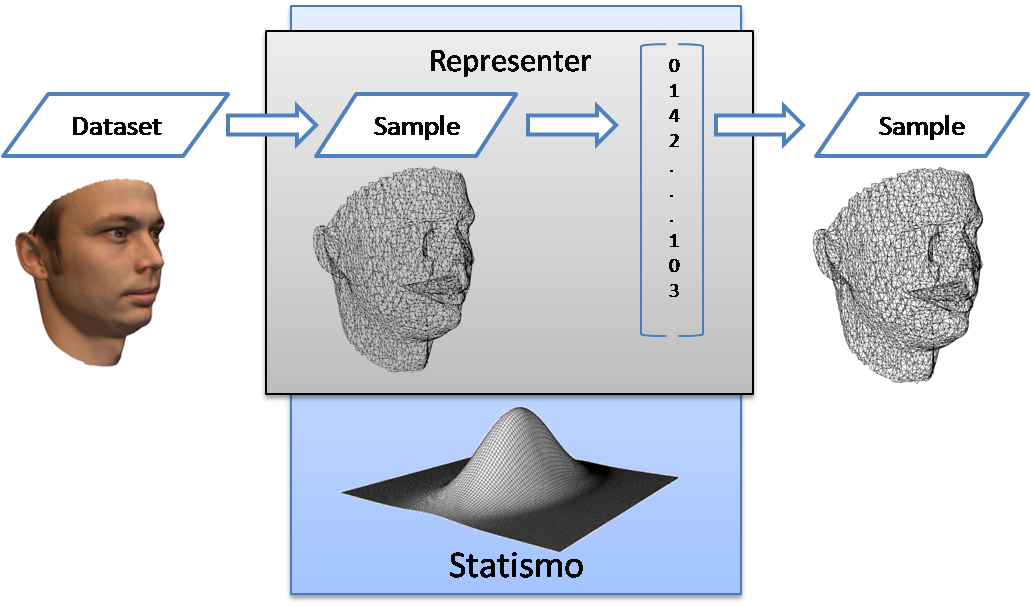
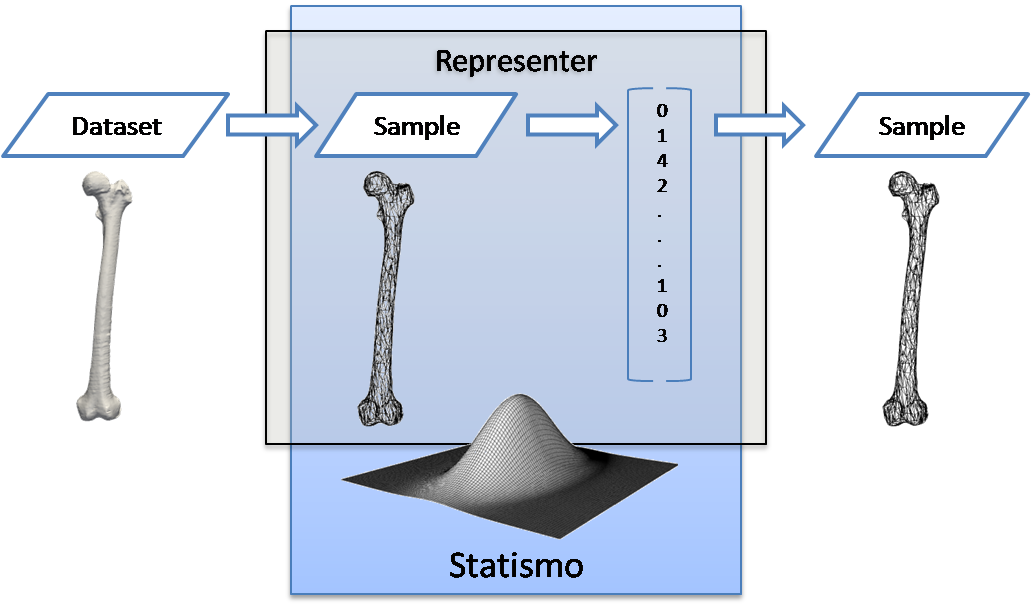
added all illustrations in IJ article

Changed region(s): [[0.2483, 0.0297, 0.7449, 0.9208], [0.7759, 0.2673, 0.9622, 0.7129], [0.0, 0.2673, 0.1862, 0.7129]]

diff --git a/doc/IJ/statismo_ij.tex b/doc/IJ/statismo_ij.tex
@@ -48,12 +48,15 @@ colorlinks,linkcolor={blue},citecolor={blue},urlcolor={blue},
 
 % At minimum, give your name and an email address.  You can include a
 % snail-mail address if you like.
-\author{Marcel L\"uthi$^{1}$, R{\'e}mi Blanc$^{2}$, Thomas Albrecht$^{1}$, Tobias Gass$^{3}$, Orcun Goksel$^3$, Philippe B\"uchler$^{4}$, Michael Kistler$^4$, Habib Bou-Sleiman$^4$,  Mauricio Reyes$^{4}$, Thomas Vetter$^{1}$ }
+\author{Marcel L\"uthi$^{1}$, R{\'e}mi Blanc$^{2}$, Thomas Albrecht$^{1}$, Tobias Gass$^{3}$, Orcun Goksel$^3$, Philippe B\"uchler$^{4}$, Michael Kistler$^4$, Habib Bou-Sleiman$^4$,  Mauricio Reyes$^{4}$, Philippe C. Cattin$^{5}$, Thomas Vetter$^{1}$ }
 
 \authoraddress{$^{1}$Department of Mathematics and Computer Science, University of Basel, Switzerland\\
                $^{2}$University of Bordeaux (TODO WHICH INSTITUTE!!!!), France\\
                $^{3}$Computer Vision Lab, ETH Zurich, Switzerland \\
-               $^{4}$Institute for Surgical Technology and Biomechanics, University of Berne, Switzerland }
+               $^{4}$Institute for Surgical Technology and Biomechanics, University of Berne, Switzerland  \\
+               $^{5}$Medical Image Analysis Center, University of Basel, Switzerland 
+             }
+
 
 \begin{document}
 
@@ -185,20 +188,25 @@ is used for creating a shape model from shapes represented in VTK can
 also be used for creating deformation models from ITK displacement
 fields.
 
-One of the main design goals of \Statismo is to facilitate the exchange of
-statistical models among different research groups and end users. We therefore
-defined a platform independent storage based on HDF5. \Statismo stores all the 
-information needed to capture the complete probabilistic interpretation of the model.
-This requires in particular that all the pre-processing steps, such as alignment or normalization 
-can be reproduced. \Statismo enforces this by requiring the same Representer to be used 
-in the application of the model, as was used for model building. Moreover, \Statismo stores
-all the parameters and additional metadata necessary to make the models more easily reproducible. 
-Another goal of \Statismo is to allow for the easy integration of
-different model building algorithms. This is achieved by the modular design of the data management, model building and model representation components. Thus, new algorithms for model building can be easily
-integrated into \Statismo and make use of all the functionality
-already implemented.  In addition to  standard PCA models, \Statismo
-currently supports the building of conditional models based on surrogate
-variables \cite{blanc_conditional_2009}, as well as geometric constraints \cite{luthi_probabilistic_2009}.
+One of the main design goals of \Statismo is to facilitate the
+exchange of statistical models among different research groups and end
+users. We therefore defined a platform independent storage based on
+HDF5 \cite{hdf5}. \Statismo stores all the information needed to
+capture the complete probabilistic interpretation of the model.  This
+requires in particular that all the pre-processing steps, such as
+alignment or normalization can be reproduced. \Statismo enforces this
+by requiring the same Representer to be used in the application of the
+model, as was used for model building. Moreover, \Statismo stores all
+the parameters and additional metadata necessary to make the models
+more easily reproducible.  Another goal of \Statismo is to allow for
+the easy integration of different model building algorithms. This is
+achieved by the modular design of the data management, model building
+and model representation components. Thus, new algorithms for model
+building can be easily integrated into \Statismo and make use of all
+the functionality already implemented.  In addition to standard PCA
+models, \Statismo currently supports the building of conditional
+models based on surrogate variables \cite{blanc_conditional_2009}, as
+well as geometric constraints \cite{luthi_probabilistic_2009}.
 
 \Statismo includes standard Representers for the most commonly used
 data representations in VTK and ITK, making it possible to build and
@@ -545,16 +553,17 @@ This restores the full model, including the representer.
 We stress however, that it is important that the same representer is used when loading the model, as the one that was used to build the model. 
 \Statismo will throw an exception if this is not the case. 
 
-\subsection{Visualizing the variability}
+\subsection{Visualizing the variability} \label{sec:visvariability}
 Probably the first and simplest application that is performed with a new model is to visualize the variability of the modeled objects. 
 This can easily be achieved by drawing random samples and visualizing them using standard tools (such as e.g. Paraview). 
 \begin{verbatim}
    vtkPolyData* sample = model->DrawSample()
 \end{verbatim}
-We can also explore the shape space more systematically, by specifying
+We can also explore the shape space more systematically by specifying
 the PCA coefficients for a given sample. In this example, we obtain three samples:
 The mean, a sample corresponding to 3 standard-deviation in the direction of the
 first principal component and one corresonding to 3 standard-deviation in the opposite direction.
+The result is visualized in Figure~\ref{fig:vispca}.
 \begin{verbatim}
    vtkPolyData* mean = model->DrawMean()
    VectorType coeffs = VectorType::Zeros(model->GetNumberOfPrincipalComponents());
@@ -565,6 +574,18 @@ first principal component and one corresonding to 3 standard-deviation in the op
    // ... delete the samples - omitted
 \end{verbatim}
 Note that each call to DrawSample create a new sample which needs to be deleted by the user.
+\begin{figure}[t]
+  \begin{tabular}{ccc}
+    \includegraphics[width=0.3\textwidth]{pictures/femur-pc1m1.png}&
+    \includegraphics[width=0.3\textwidth]{pictures/femur-mean.png}& 
+    \includegraphics[width=0.3\textwidth]{pictures/femur-pc1p1.png}
+    \\
+    $-3 \sigma$ & mean & $+3 \sigma$
+  \end{tabular}
+  \itkcaption{The first mode of variation ($\pm 3$ standard deviations) for a shape model of the femur. 
+    In this case the first variation mainly captures the size of the bone.}
+    \label{fig:vispca}
+\end{figure}
 
 
 \subsection{Using statistical models as  a prior}
@@ -684,36 +705,55 @@ MeshType::Pointer finalMesh = model->DrawSample(transform->GetCoefficients());
 
 \section{Adding more prior information: Constrained PCA models }
 One goal of \Statismo is to allow the integration of  different algorithms for building statistical models.
-Currently, \Statismo comes with three different methods to build statistical models (Cf. Figure~\ref{fig:class-diagram}). Besides the standard \code{PCAModelBuidler} that was used in all the examples presented so far, there is a \code{PartiallyFixedModelBuilder} \cite{luthi_probabilistic_2009} and a \code{ConditionalModelBuilder} \cite{blanc_conditional_2009}. Both model builders incorporate additional prior information into the model building and thus reduce the variability of the resulting model. The resulting models itself, are standard PCA models that can be used and interpreted in exactly the same way as the models discussed so far. 
-
+Currently, \Statismo comes with three different methods to build statistical models (Cf. Figure~\ref{fig:class-diagram}). Besides the standard \code{PCAModelBuidler} that was used in all the examples presented so far, there is a \code{PartiallyFixedModelBuilder} \cite{luthi_probabilistic_2009} and a \code{ConditionalModelBuilder} \cite{blanc_conditional_2009}. Both model builders incorporate additional prior information into the model building and thus reduce the variability of the resulting model. The resulting models itself are standard PCA models that can be used and interpreted in exactly the same way as the models discussed so far. 
 \subsection{Partially fixed models}
-\begin{figure}
-  to be included
-  \itkcaption{A constrained model (TODO text)}
+\begin{figure}[tbh]
+  \begin{tabular}{ccc}
+    \includegraphics[width=0.3\textwidth]{pictures/femur-constrained-pc1m1.png}&
+    \includegraphics[width=0.3\textwidth]{pictures/femur-mean-lm.png}& 
+    \includegraphics[width=0.3\textwidth]{pictures/femur-constrained-pc1p1.png}
+    \\
+    $-3 \sigma$ & mean & $+3 \sigma$
+  \end{tabular}
+  \itkcaption{A shape model of the femur, with two landmark points (in red) fixed. As the landmark points determine the size, 
+  of the femur, the first component is not the size anymore, but shows mainly variations on the femoral head and the condyles. }
     \label{fig:constrained-model}
 \end{figure}
-Partially fixed models allow for introducing geometric constraints on the model. For example, a part of the shape may be known, and only the flexibility of the remaining part should be obtained. Another typical scenario is when in an application of the shape model, the user provides a number of landmarks that fix the shape. 
-Consider the shape model fitting example from Section~\ref{sec:model-fitting}. Assume that we have a set of landmark points, which determine the position of the target shape. We can incorporate these points already into the model building, to obtain a model that is fixed at the landmark points. Figure~\ref{fig:constrained-model} shows an example of such a  constrained model.  Using this model for model fitting leads to a simpler optimization problem, and furthermore guarantees that the landmark points are matched. 
-The following (incomplete) code illustrates how such models can be built. 
-
+Partially fixed models allow for introducing geometric constraints on
+the model. This allows us to model the variability in a model, when we know the shape for a part of the model.
+A typical application of this model is the reconstruction of a fractured or traumatized bone. 
+Another scenario where these models are useful is in model fitting. 
+Consider the shape model fitting example from Section~\ref{sec:model-fitting}. Assume
+that we know for some points of the model the corresponding points on the target image. 
+Using the \code{PartiallyFixedModelBuilder}, we can
+incorporate these constraints into the model building, to obtain a
+model that represents only shapes that match the target points.  The
+following (incomplete) code illustrates how such models can be built.
 \begin{verbatim}
 // ... usual type definitions - omitted
 typedef PartiallyFixedModelBuilder<RepresenterType> PartiallyFixedModelBuilderType;
 
 PartiallyFixedModelBuilderType*  pfmb = PartiallyFixedModelBuilderType::Create();
 
-// ... Read source and target landmarks, omitted
+// ... Read model and target landmarks, omitted
 
 StatisticalModelType::PointValueListType constraints;
 for (unsigned i = 0; i < numLandmarks; i++) { 
-   StatisticalModelType::PointValuePairType cnstr(sourceLandmarks[i] , targetLandmarks[i]);
+   StatisticalModelType::PointValuePairType cnstr(modelLandmarks[i], targetLandmarks[i]);
    constraints.push_back(cnstr);
 }
 StatisticalModelType* constraintModel = 
    pfmb->BuildNewModel(dataManager->GetSampleData(), constraints);
 \end{verbatim}
-
-For more details about the idea of these models, we refer to the papers \cite{luthi_probabilistic_2009,luthi_using_2011}.
+Figure~\ref{fig:constrained-model} shows the first main variation for
+the same shape model as in Figure~\ref{fig:vispca}, but this time with
+2 points (in red) fixed. We see that the landmark point remain fixed
+in the first main variation.  By using this constrained model for model fitting, we can thus guarantee that
+the landmark points are matched, without having to change our fitting
+algorithm. An additional advantage is that the search space becomes
+smaller, and thus the optimization problem easier.  For more details
+on the theoretical background and the applications of these models, we
+refer to the papers \cite{luthi_probabilistic_2009,luthi_using_2011}.
 
 \subsection{Conditional Models}
 The second algorithm for model building, which we refer to as the
@@ -788,97 +828,59 @@ models.
 
 
 
+\appendix
 
-% \appendix
+\section{Appendix}
 
-% \section{Appendix}
-% \subsection{A list of standard representers}\label{app:representers}
-% TODO to be rewritten
 
-% The following representers are shipped with \Statismo:
+\subsection{The file format}
+\Statismo uses the platform independent HDF5 \cite{hdf5} to save the
+statistical models. The HDF5 file contains all the information that is
+needed to use the model from an application as well as information
+about the data and parameters used to create the model.  HDF5 provides
+a hierarchical, file-system like data organization. 
+For \Statismo, we have organized the data into  3 main groups:
+\begin{description}
+  \item [Model] Contains the vectors and matrices that define the model, i.e.\ the \code{mean}, the \code{pcaBasis}, the \code{pcaVariance} as well 
+    as the \code{noiseVariance} assumed in the model. 
+  \item [Modelinfo] Holds the metadata for the model. The metadata
+    consists of the \code{buildtime} of the model, the \code{scores} (the
+    PCA coefficients of the original example data), a section using 
+    \code{builderInfo} that contains all the parameters of the specific model builder used to build the model, as well as a section \code{dataInfo} that contains the URI's of the datasets that have been used to build the model. 
+  \item [Representer]
+    This group is used to store all the information that is needed by the representer. 
+ \end{description}
+ The data stored in the HDF5 file can eihter be explored using the API provided by \Statismo (Cf. the class \code{StatisticalModel}), or directly 
+ from one of the many software packages that support HDF5, such as e.g.\ Matlab \cite{matlab}, R \cite{R} or Pytables \cite{pytables}.
 
-% \begin{tabular}{ll}
-%   Name & Description \\ \hline 
-%   vtkPolyDataRepresenter & Shape models from vtk meshes.  \\
-%   & The examples are aligned to a reference using Procrustes alignment \\
-%   & No registration is performed - Examples have to be in correspondence. \\ \\
-%   vtkStructuredPointsRepresenter & Image models and Deformation models from vtk structured points.\\
-%   & No registration is performed - Examples have to be in correspondence. \\ \\
-%   itkImageRepresenter & Image (intensity) models from itk images \\
-%   & No registration is performed - Examples have to be in correspondence. \\ \\
-%   itkVectorImageRepresenter & Deformation models from itk displacement fields. \\
-%   & No registration is performed - Examples have to be in correspondence. \\ \\
-%   itkVectorLMAlignImageRepresenter & Deformation models from itk displacement fields \\
-%   & All deformation fields are aligned rigidly to a number of specified points. \\
-%   & No registration is performed - Examples have to be in correspondence. \\ \\
+\subsection{Currently available Representers}
+\Statismo comes with several Representer classes for building various types of statistical models, using VTK and ITK. 
+Currently, all the representers requires that the input datasets are discretized in the same way and in correspondence.
 
-% \end{tabular}
-% \subsection{Defining your own representer}
-% TODO to be rewritten
-% Consider the method
-% \code{ComputeProbabilityForDataset(DatasetConstPointType object)} defined for the \code{StatisticalModel}. This probability 
-% can only be computed in a meaningful way if the object is discretized and normalized exactly in the same way 
-% as it was done for the training data. Therefore, a model is only well defined if it is used with the same \code{Representer} as was used to create the model.
+In the following we briefly describe the different Representers:
+\begin{description}
+\item[TrivialVectorialRepresenter] This is the most basic representers. It can be used to build statistical models in the case where the input is already available in a vector representation. 
+\item[vtkPolyDataRepresenters] Used to build shape models from VTK, in case where the data is represented as VTK Polydata. This representer 
+  performs a Procrustes alignment \cite{horn_closed-form_1987} of the datasets before the model is built. 
+\item[vtkStructuredPointsRepresenter] This representer is used to
+  build image (appearance-) and deformation models from data that is
+  represented as vtkStructuredPoints. 
+\item[itkMeshRepresenter] This representer is used to build shape
+  models from itk Meshes.  In contrast to the vtkPolyDataRepresenter,
+  no alignment is performed.
+\item[itkImageRepresenter] Used to build 2D and 3D image (appearance-) models from itk images. 
+\item[itkVectorImageRepresenter] Used to build 2D and 3D deformation models from itk displacement fields. 
+\item[itkVectorImageLMAlignRepresenter] This representer is similar to the itkVectorImageRepresenter. 
+  In addition, the user can provide a number of landmark points. the input displacement fields are evaluated
+  at these landmark points, to obtain a set of corresponding points. From these points, a rigid transformation is computed, 
+  which is used to resample the displacement fields. 
 
-% For specifying the semantics, a \code{Representer} implements the following methods:
-% \begin{verbatim}
-% 	DatasetPointerType DatasetToSample(DatasetConstPointerType ds) const;
-% 	VectorType SampleToSampleVector(DatasetConstPointerType sample) const;
-% 	DatasetPointerType SampleVectorToSample(const VectorType& sample) const;
-% 	statismo::VectorType PointSampleVectorToPointSample(const ValueType& v) const;
-% 	ValueType PointSampleToPointSampleVector(const VectorType& pointSample) const;
-% \end{verbatim}
-% The terminology used in this definitions is the following: 
-% \begin{description}
-%   \item[Dataset] A dataset is a representation of an object in the specific toolkit, such as e.g. a vtkPolyData or a itk::Mesh
-%   \item[Sample] A sample is of the same type as the Dataset, but is discretized and normalized as discussed in Section~\ref{sec:pca-models}. 
-%   \item[SampleVector] The SampleVector denotes the vectorial representation of a sample.
-%   \item[PointSample] This refers to the value of a sample at a given point. For an mesh this would for example be a point of the mesh, for a  image, this would denote a pixel value (e.g. image intensity).
-%   \end{description}
-  
-%   Defining these methods allows for a great variety of different models. On one
-%   hand, one could imagine implementing a representer that covers the whole
-%   pipeline including discretization and registration. At the other extreme, a representer may simply take vectorized data directly, without specifying any registration or normalization strategy.
-
-% To make the use of \Statismo easier for the user, \Statismo already provides a number of representers for the most common applications. See \ref{app:representers} for a list of predefined representers. 
-
-% \subsection{The file format}
-% TODO to be rewritten
-% The statistical models are stored in a HDF5 file format (TODO cite). HDF5 was chosen, as it allows for the efficient and platform independent storage of large data. HDF5 provides a hierarchical organization to store the data, similar to what is known from the common file systems. For \Statismo, we have defined 3 main groups:
-% \begin{description}
-%   \item [model] Contains the vectors matrices that make up the model. This information is stored under the keys \code{mean}, \code{pcaBasis}, \code{pcaVariance} and \code{noiseVariance}. 
-%   \item [modelinfo] Contains all the metadata for this model. The metadata consists of the \code{scores} (the PCA coefficients of the original example data), a section \code{builderInfo} containing all the parameters from the model builders, as well as a section \code{dataInfo} containing information about the data used to build this model, such as the URI's of the original examples. 
-%   \item [representer]
-%     This group is used to store all the information that is needed by a specific representer. 
-% \end{description}
-
-% \section{TODO}
-% \begin{itemize}
-%   \item include examples
-%   \item mention VSD
-% \end{itemize}
+\end{description}
 
 \subsection*{Acknowledgements}
 This work has been supported by the CO-ME/NCCR research network of
-the Swiss National Science Foundation. We thank Arnauld Gelas for helpful comments regarding this
+the Swiss National Science Foundation. The femur data has been made available by the Virtual Skeleton Database (VSD) project\footnote{http://www.virtualskeleton.ch}. We also would like to thank Arnauld Gelas for helpful comments regarding this
 submission. 
-
-%%%%%%%%%%%%%%%%%%%%%%%%%%%%%%%%%%%%%%%%%%%%%%%%%%%%%%%%%%
-%
-%  Example on how to insert a figure
-%
-%%%%%%%%%%%%%%%%%%%%%%%%%%%%%%%%%%%%%%%%%%%%%%%%%%%%%%%%%%
-
-%\begin{figure}
-%\center
-%\includegraphics[width=0.8\textwidth]{RegistrationComponentsDiagram.eps}
-%\itkcaption[Registration Framework Components]{The basic components of the
-%registration framework are two input images, a transform, a metric, an
-%interpolator and an optimizer.}
-%\label{fig:RegistrationComponents}
-%\end{figure}
-
-
 
 
 
